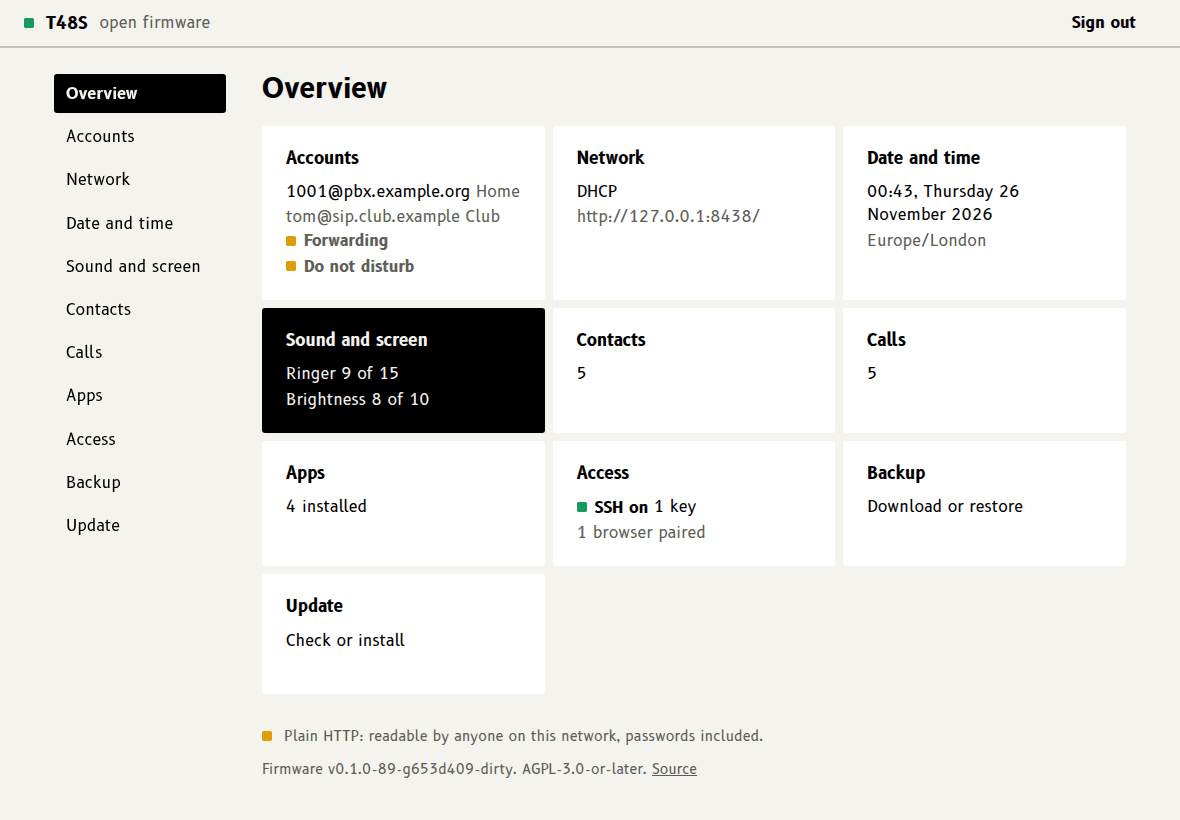
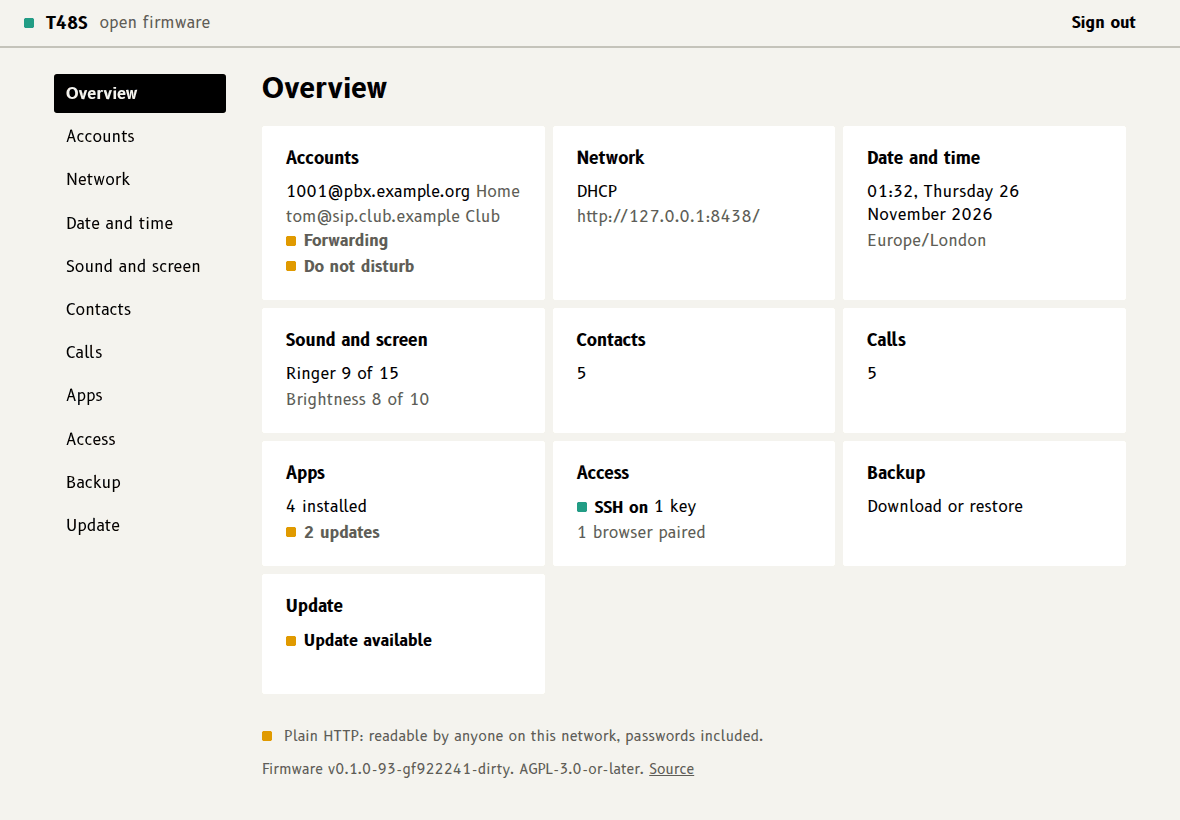
Web setup: the update notice, the app update count and Daily check
The overview's Update tile says "Update available" as the phone's home screen does, and the Apps tile counts app updates. The Update page has a Daily check tick box beside the channel; saving the same channel no longer asks the updater, so what the last check found stays. t48-app is given the state folder. Issue #80.

diff --git a/webconfig/pages.c b/webconfig/pages.c
@@ -240,6 +240,19 @@ static void scan_apps(void)
 }
 
 static int ssh_is_on(void);
+struct update_info {
+    char installed[8], slot[8], version[64], channel[204], latest[64], update[12], kernel[12], checked[24];
+    char state[16], message[160], result[160], result_time[24];
+};
+static void update_read(struct update_info *u);
+static const char *update_notice(const struct update_info *u);
+
+/* installed apps the feed has newer, as t48-app last found: the home screen's count (issue #80) */
+static int app_updates(void)
+{
+    const char *feed = val("feed", "url", "");
+    return manifest_updates(opt.state, feed[0] ? feed : T48_DEFAULT_FEED);
+}
 
 void page_overview(struct req *r)
 {
@@ -279,14 +292,22 @@ void page_overview(struct req *r)
     H("<a class='card tile' href='/history'><h2>Calls</h2><p>%d</p></a>", history_count());
 
     scan_apps();
-    H("<a class='card tile' href='/apps'><h2>Apps</h2><p>%d installed</p></a>", napps);
+    int ups = app_updates();
+    H("<a class='card tile' href='/apps'><h2>Apps</h2><p>%d installed</p>", napps);
+    if (ups) H("<p><span class='pill warn'>%d update%r</span></p>", ups, ups == 1 ? "" : "s");
+    H("</a>");
 
     int ssh = ssh_is_on();
     H("<a class='card tile' href='/access'><h2>Access</h2><p><span class='pill %r'>SSH %r</span> %d key%r</p><p>%d browser%r paired</p></a>",
       ssh ? "good" : "", ssh ? "on" : "off", keys_count(), keys_count() == 1 ? "" : "s", sessions_count(), sessions_count() == 1 ? "" : "s");
 
     H("<a class='card tile' href='/backup'><h2>Backup</h2><p>Download or restore</p></a>");
-    H("<a class='card tile' href='/update'><h2>Update</h2><p>Check or install</p></a>");
+    /* what the daily check found, worded as on the phone's home screen */
+    struct update_info u;
+    update_read(&u);
+    const char *note = update_notice(&u);
+    if (note) H("<a class='card tile' href='/update'><h2>Update</h2><p><span class='pill warn'>%s</span></p></a>", note);
+    else H("<a class='card tile' href='/update'><h2>Update</h2><p>Check or install</p></a>");
     H("</div>");
     page_end(r);
 }
@@ -1184,12 +1205,13 @@ static void post_history_clear(struct req *r)
 
 static int app_command(const char *verb, const char *id, char *out, size_t n, int wait_ms)
 {
-    char *argv[12];
+    char *argv[16];
     int k = 0;
     argv[k++] = (char *)wopt.appcmd;
     argv[k++] = "--apps"; argv[k++] = (char *)opt.apps;
     argv[k++] = "--config"; argv[k++] = (char *)opt.config;
     argv[k++] = "--data"; argv[k++] = (char *)opt.data;
+    argv[k++] = "--state"; argv[k++] = (char *)opt.state;   /* where what the feed offers is kept (issue #80) */
     argv[k++] = "--machine";
     argv[k++] = (char *)verb;
     if (id) argv[k++] = (char *)id;
@@ -1822,10 +1844,6 @@ out:
 
 /* ---------- update: t48-update does the work (docs/install.md) ---------- */
 
-struct update_info {
-    char installed[8], slot[8], version[64], channel[204], latest[64], update[12], kernel[12], checked[24];
-    char state[16], message[160], result[160], result_time[24];
-};
 
 static int update_command(const char *verb, const char *arg, char *out, size_t n, int wait_ms)
 {
@@ -1857,6 +1875,14 @@ static void update_read(struct update_info *u)
         p = nl ? nl + 1 : NULL;
     }
     if (!u->version[0]) snprintf(u->version, sizeof u->version, "%s", T48_VERSION);
+}
+
+/* "Update available", as the phone's home screen says it; NULL for none */
+static const char *update_notice(const struct update_info *u)
+{
+    if (strcmp(u->installed, "yes") || strcmp(u->update, "yes") || !strcmp(u->state, "restart")) return NULL;
+    return !strcmp(u->channel, "stable") ? "Update available" : !strcmp(u->channel, "testing") ? "Testing: update available"
+                                                                                               : "Custom: update available";
 }
 
 static int update_busy(const struct update_info *u)
@@ -1961,7 +1987,10 @@ static void page_update(struct req *r)
           "<option value='testing'%r>Testing</option><option value='custom'%r>Custom</option></select></label>",
           !strcmp(u.channel, "stable") ? " selected" : "", !strcmp(u.channel, "testing") ? " selected" : "", named ? "" : " selected");
         field("Custom URL", "url", named ? "" : u.channel, "type='url' autocapitalize='none' spellcheck='false' placeholder='https://'", NULL);
-        H("</div><div class='actions'><button type='submit'>Save</button></div></form></div>");
+        /* firmware and apps, once a night (issue #80): it finds, and never installs */
+        H("</div><label class='check'><input type='checkbox' name='daily' value='on'%r> Daily check</label>",
+          strcmp(val("update", "daily", "on"), "off") ? " checked" : "");
+        H("<div class='actions'><button type='submit'>Save</button></div></form></div>");
     }
     page_end(r);
 }
@@ -2000,8 +2029,15 @@ static void post_update_channel(struct req *r)
     }
     update_read(&u);
     if (update_busy(&u) || update_pending(&u)) { flash(r, 1, "Update already running."); redirect(r, "/update"); return; }
+    if (cfg_set("update", "daily", !strcmp(form(r, "daily"), "on") ? "on" : "off") < 0) {
+        flash(r, 1, "Not saved: %s.", strerror(errno));
+        redirect(r, "/update");
+        return;
+    }
+    /* the same channel again: nothing for the updater, and what the last check found stays */
+    if (!strcmp(to, u.channel)) flash(r, 0, "Saved.");
     /* the updater has the last word on what a channel may be, and says why not */
-    if (update_command("channel", to, out, sizeof out, 10000) != 0) {
+    else if (update_command("channel", to, out, sizeof out, 10000) != 0) {
         out[strcspn(out, "\r\n")] = 0;
         flash(r, 1, "Not saved: %s.", out[0] ? out : "updater did not finish");
     } else flash(r, 0, "Channel saved.");

diff --git a/webconfig/tests/test_web.py b/webconfig/tests/test_web.py
@@ -982,8 +982,11 @@ class Paired(unittest.TestCase):
         page = b.get("/apps").body
         self.assertIn("pill warn'>Update<", page)
         self.assertNotIn("/apps/update-all", page)     # one update: as on the phone, no Update all
+        # the overview counts it, as the phone's home screen does (issue 80)
+        self.assertIn("<h2>Apps</h2><p>3 installed</p><p><span class='pill warn'>1 update</span></p>", b.get("/").body)
         self.ok("/apps/update", {"id": "demo"}, "/apps")
         self.assertIn("Installed 1.1.0", b.get("/apps").body)
+        self.assertIn("<h2>Apps</h2><p>3 installed</p></a>", b.get("/").body)
         self.assertEqual(p.get("apps/demo", "title"), "Kitchen")
         self.ok("/apps/settings", {"id": "demo", "defaults": "yes"}, "/apps")
         self.assertIsNone(p.get("apps/demo", "title"))
@@ -1388,6 +1391,42 @@ class Update(unittest.TestCase):
         self.assertEqual(self.calls(), ["check", "channel testing", "channel https://builds.example.org/t48s/",
                                         "channel https://builds.example.org/?a=$(reboot)", "channel stable"])
         self.assertNotIn("builds.example.org", self.p.logtext())
+
+    def test_notice_on_the_overview(self):
+        # what the daily check found, worded as on the phone's home screen (issue 80)
+        tile = lambda: re.search(r"<a class='card tile' href='/update'>.*?</a>", self.b.get("/").body).group(0)
+        self.assertIn("<p>Check or install</p>", tile())
+        self.fake("offer", "latest=v0.3.0\nupdate=yes\nkernel=same\n")
+        self.post("/update/check")
+        self.page(lambda r: self.fact(r.body, "Status") == "Update available")
+        self.assertIn("<span class='pill warn'>Update available</span>", tile())
+        self.post("/update/channel", {"channel": "testing", "url": "", "daily": "on"})
+        self.assertIn("<p>Check or install</p>", tile())
+        self.post("/update/check")
+        self.page(lambda r: self.fact(r.body, "Status") == "Update available")
+        self.assertIn("<span class='pill warn'>Testing: update available</span>", tile())
+        # installed and waiting for the restart: no longer offered
+        self.post("/update/install")
+        self.page(lambda r: self.fact(r.body, "Status") == "Restart to finish")
+        self.assertIn("<p>Check or install</p>", tile())
+
+    def test_daily_check(self):
+        r = self.page()
+        self.assertIn("<input type='checkbox' name='daily' value='on' checked> Daily check", r.body)
+        # off: written to the settings the daily check reads; the channel is left alone
+        self.fake("offer", "latest=v0.3.0\nupdate=yes\nkernel=same\n")
+        self.post("/update/check")
+        self.page(lambda r: self.fact(r.body, "Status") == "Update available")
+        self.post("/update/channel", {"channel": "stable", "url": ""})
+        r = self.page()
+        self.assertEqual(self.flash(r), (False, "Saved."))
+        self.assertEqual(self.p.get("update", "daily"), "off")
+        self.assertIn("<input type='checkbox' name='daily' value='on'> Daily check", r.body)
+        self.assertEqual(self.fact(r.body, "Status"), "Update available")
+        self.assertEqual(self.calls(), ["check"])
+        self.post("/update/channel", {"channel": "stable", "url": "", "daily": "on"})
+        self.assertEqual(self.p.get("update", "daily"), "on")
+        self.assertIn("value='on' checked> Daily check", self.page().body)
 
     def test_kernel_differs(self):
         self.fake("offer", "latest=v0.3.0\nupdate=no\nkernel=differs\n")
